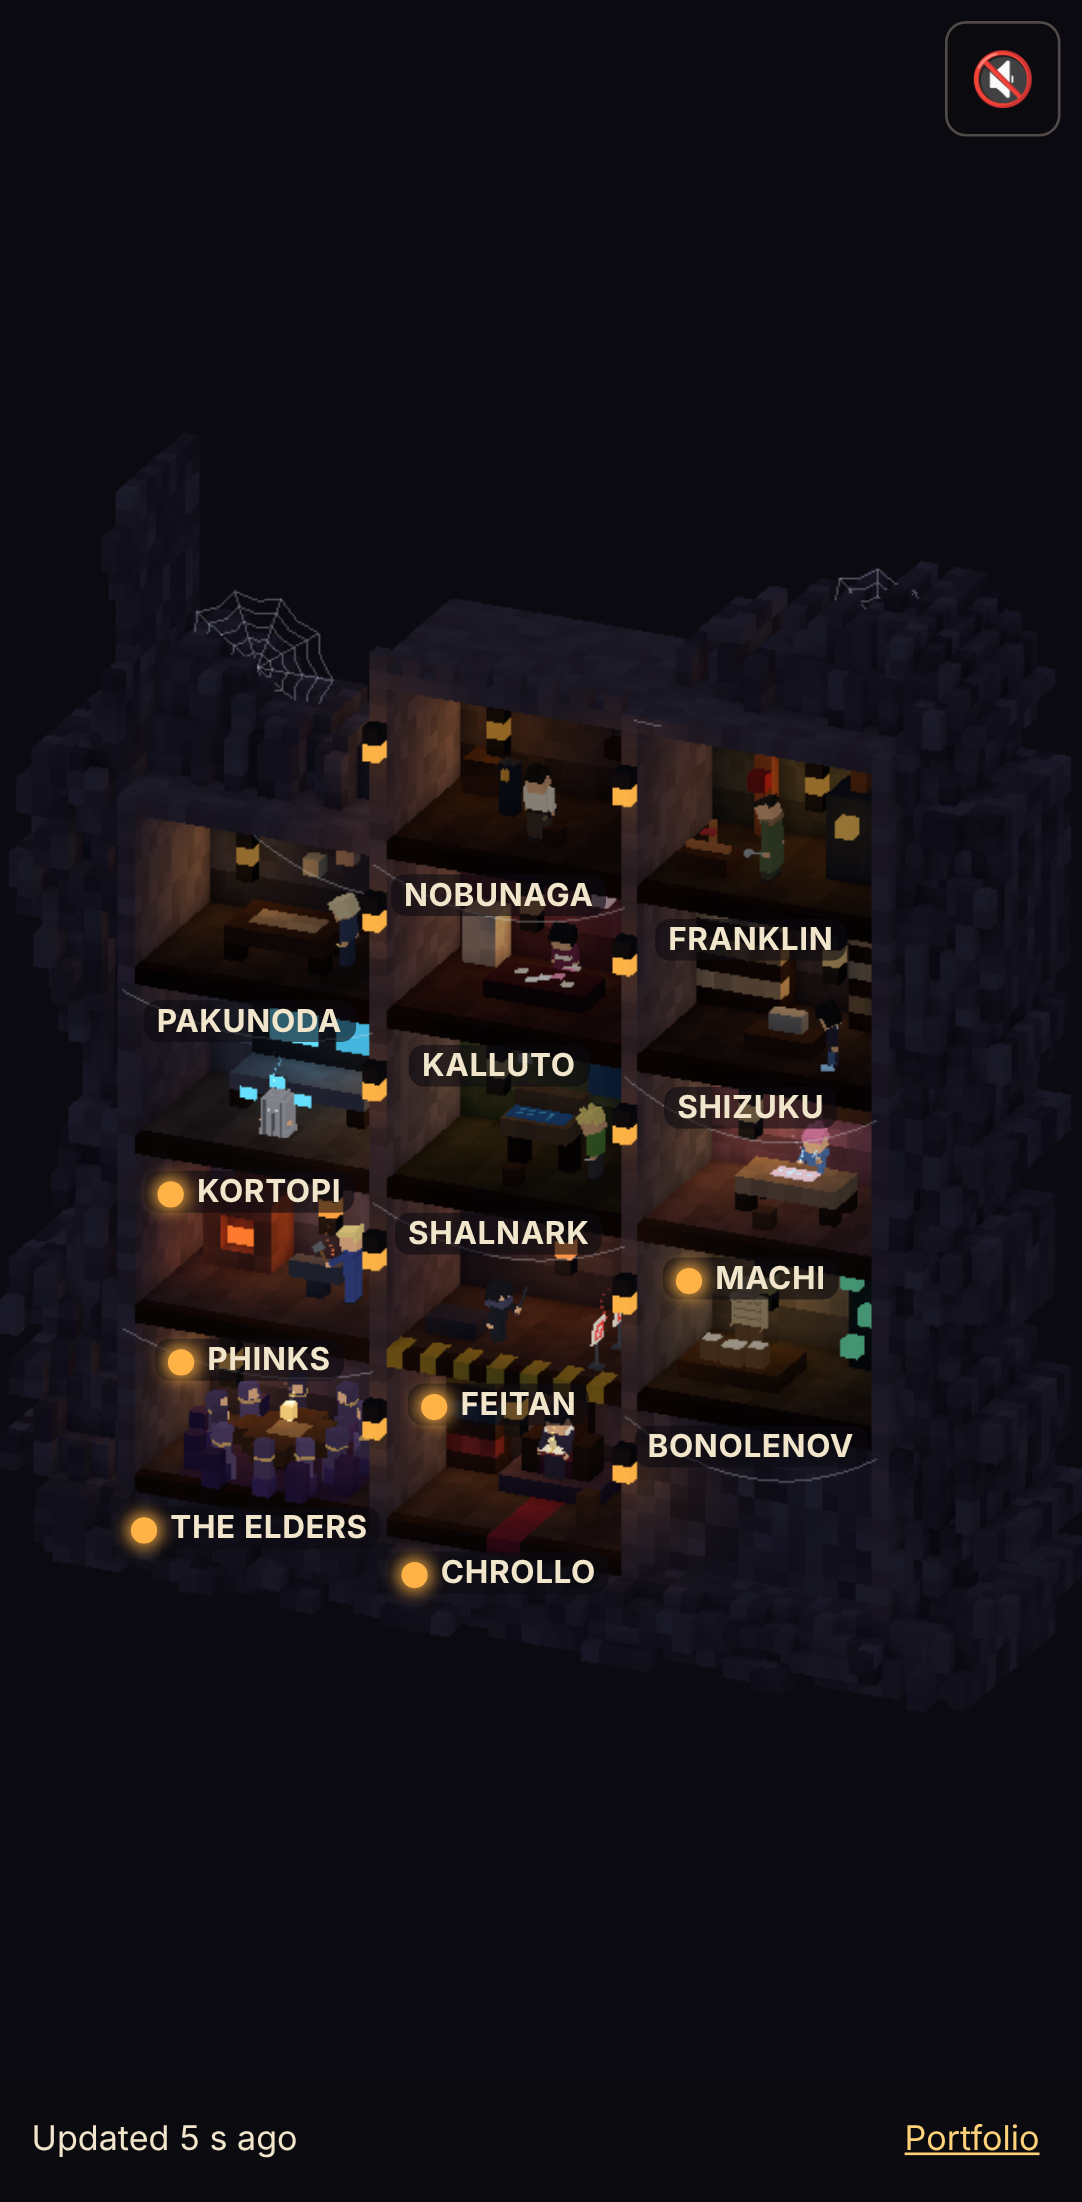
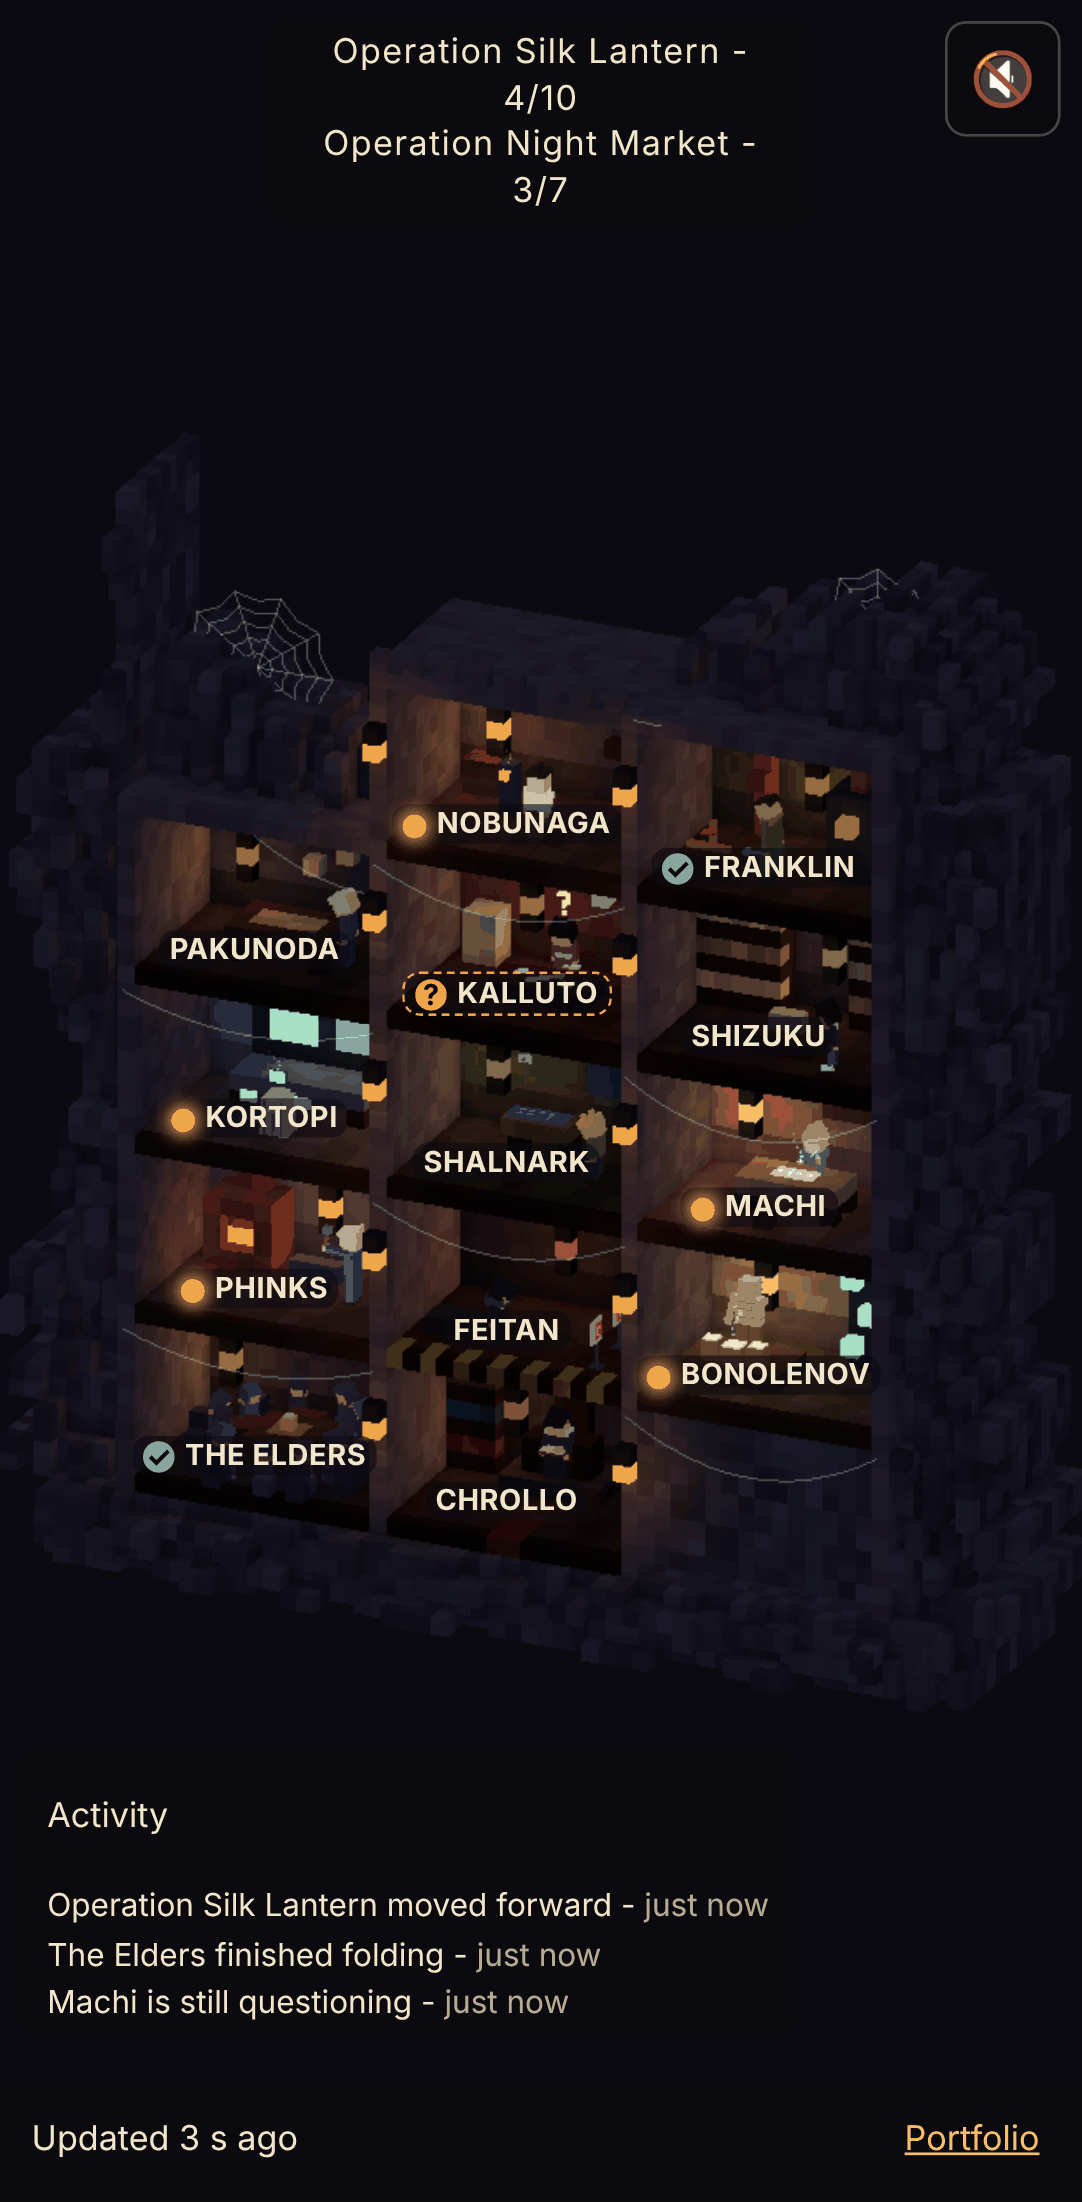
Seat room labels inside their room above the floor, a bit smaller
Labels sit just above each room's floor, inside the room, so they no
longer straddle the line or hang into the room below. Name and detail
lines, padding and markers are slightly smaller (11 px minimum).

-C.L.

diff --git a/e2e/labels.spec.ts b/e2e/labels.spec.ts
@@ -76,7 +76,7 @@ const roomPx = (page: Page) =>
     ),
   );
 
-/** A page point inside a room: just above its label (the label sits on the room's floor edge). */
+/** A page point inside a room: just above its label (the label sits just above the room floor). */
 async function roomPoint(page: Page, id: string) {
   const b = await label(page, id).boundingBox();
   if (!b) throw new Error(`no box for ${id}`);
@@ -152,7 +152,7 @@ test('all 13 labels show name and role, on screen, legible, not overlapping (def
     expect(r.y, `${r.id} top`).toBeGreaterThanOrEqual(0);
     expect(r.y + r.h, `${r.id} bottom`).toBeLessThanOrEqual(vp.height);
     expect(r.nameFont, `${r.id} name font`).toBeGreaterThanOrEqual(11);
-    expect(r.roleFont, `${r.id} role font`).toBeGreaterThanOrEqual(12);
+    expect(r.roleFont, `${r.id} role font`).toBeGreaterThanOrEqual(11);
     expect(contrast(r.color, 'rgb(11, 10, 16)'), `${r.id} contrast`).toBeGreaterThanOrEqual(4.5);
     expect(r.scrollW, `${r.id} text fits`).toBeLessThanOrEqual(r.clientW + 1);
   }
@@ -530,7 +530,7 @@ test('draw calls: labels and panel add none', async ({ page }) => {
   expect(withPanel, 'zoomed in culls, never adds').toBeLessThanOrEqual(base);
 });
 
-test('compact labels on a narrow screen: 12px name, role kept for screen readers, panel hides the others', async ({
+test('compact labels on a narrow screen: 11px name, role kept for screen readers, panel hides the others', async ({
   page,
 }) => {
   await page.setViewportSize({ width: 390, height: 844 });
@@ -539,7 +539,7 @@ test('compact labels on a narrow screen: 12px name, role kept for screen readers
   const nameFont = await k
     .locator('.room-name')
     .evaluate((e) => parseFloat(getComputedStyle(e).fontSize));
-  expect(nameFont).toBeGreaterThanOrEqual(12);
+  expect(nameFont).toBeGreaterThanOrEqual(11);
   const role = await k.locator('.room-role').boundingBox();
   expect(role && role.width <= 1 && role.height <= 1, 'role visually hidden').toBe(true);
   await expect(page.getByRole('button', { name: /^Kortopi.*Front-end engineer/ })).toHaveCount(1);

diff --git a/src/ui/room.css b/src/ui/room.css
@@ -12,14 +12,14 @@
   left: 0;
   top: 0;
   max-width: var(--room-px, 100px);
-  padding: 2px 6px;
+  padding: 1px 5px;
   margin: 0;
   border: 0;
   border-radius: 6px;
   background: rgba(11, 10, 16, 0.72);
   color: #f1e6cc;
   font:
-    12px/1.2 system-ui,
+    11px/1.15 system-ui,
     sans-serif;
   text-align: center;
   pointer-events: none;
@@ -33,7 +33,7 @@
   display: block;
 }
 .room-name {
-  font-size: 12px;
+  font-size: 11px;
   font-weight: 700;
   letter-spacing: 0.06em;
   text-transform: uppercase;
@@ -141,24 +141,24 @@
 .room-name::before {
   content: '';
   display: none;
-  margin-right: 5px;
+  margin-right: 4px;
   vertical-align: middle;
 }
 .room-label[data-state='working'] .room-name::before,
 .room-label[data-state='done'] .room-name::before,
 .room-label[data-state='stale'] .room-name::before {
   display: inline-block;
-  min-width: 14px;
-  height: 14px;
-  border-radius: 7px;
-  line-height: 14px;
+  min-width: 12px;
+  height: 12px;
+  border-radius: 6px;
+  line-height: 12px;
   text-align: center;
-  font-size: 12px;
+  font-size: 11px;
   letter-spacing: 0;
 }
 .room-label[data-state='working'] .room-name::before {
-  min-width: 10px;
-  height: 10px;
+  min-width: 9px;
+  height: 9px;
   background: #ffb347;
   box-shadow: 0 0 6px 2px rgba(255, 179, 71, 0.8);
 }
@@ -193,14 +193,11 @@
   .room-labels[data-panel] .room-label:not([data-open]) {
     opacity: 0;
   }
-  .room-labels {
-    --label-y: 0px;
-  }
   .room-label {
     max-width: none;
-    padding: 1px 5px;
+    padding: 1px 4px;
     white-space: nowrap;
-    font-size: 12px;
+    font-size: 11px;
     background: rgba(11, 10, 16, 0.6);
   }
   .room-name {

diff --git a/src/scene/voxel/hideout.ts b/src/scene/voxel/hideout.ts
@@ -28,7 +28,7 @@ export type RoomAnchors = {
   readonly figure: Vec3;
   /** Top surface for the role prop. */
   readonly prop: Vec3;
-  /** Below the room's open front (on the floor edge), for the name label. */
+  /** Just above the floor at the room's front edge, inside the room: the label's bottom sits here. */
   readonly label: Vec3;
   /** Wall lantern centre (glow position for RoomLights). */
   readonly light: Vec3;
@@ -76,7 +76,7 @@ function computeAnchors(member: Member): RoomAnchors {
   const anchors: RoomAnchors = {
     figure: add(o, s.figure),
     prop: add(o, s.prop),
-    label: [(box.min[0] + box.max[0]) / 2, box.min[1] - 0.5, box.max[2] + 0.5],
+    label: [(box.min[0] + box.max[0]) / 2, box.min[1] + 1, box.max[2] - 0.5],
     light: add(o, [s.lantern[0] + 0.5, s.lantern[1] + 0.5, s.lantern[2] + 0.5]),
     center: boxCenter(box),
     box,

diff --git a/src/scene/Labels.tsx b/src/scene/Labels.tsx
@@ -179,7 +179,7 @@ export function Labels() {
       const el = kids[i];
       if (!m3 || !(el instanceof HTMLElement)) continue;
       scratch.set(...ROOM_ANCHORS[m3.id].label).project(cam);
-      el.style.transform = `translate(${Math.round((scratch.x * 0.5 + 0.5) * size.width)}px,${Math.round((-scratch.y * 0.5 + 0.5) * size.height)}px) translate(-50%,var(--label-y,0px))`;
+      el.style.transform = `translate(${Math.round((scratch.x * 0.5 + 0.5) * size.width)}px,${Math.round((-scratch.y * 0.5 + 0.5) * size.height)}px) translate(-50%,-100%)`;
     }
   });
 

diff --git a/src/scene/voxel/voxel.test.ts b/src/scene/voxel/voxel.test.ts
@@ -176,7 +176,10 @@ describe('hideout', () => {
           expect(p[k]).toBeGreaterThanOrEqual((a.box.min[k] ?? 0) - 1);
           expect(p[k]).toBeLessThanOrEqual(a.box.max[k] ?? 0);
         }
-      expect(a.label[1]).toBeGreaterThan(a.box.max[1] - 0.01);
+      // label sits inside its own room, just above the floor
+      expect(a.label[1]).toBeGreaterThan(a.box.min[1]);
+      expect(a.label[1]).toBeLessThan(a.box.min[1] + 3);
+      expect(a.label[2]).toBeLessThanOrEqual(a.box.max[2]);
     }
     expect(ROOM_ANCHORS.elders.seats).toHaveLength(11);
   });

diff --git a/docs/screenshots/README.md b/docs/screenshots/README.md
@@ -19,14 +19,14 @@ and is captured at the glow peak of a real working -> done transition.
 Honest notes per image (what looks good, what looks off):
 
 - desktop-1: clean, whole hideout fitted, labels readable; nothing lit, as it should be.
-- desktop-2: working rooms glow with verbs under role; banner and ticker clear. Labels of working members are one line taller (role + verb) and still cover a little of the wall strip of the room below; desktop is unchanged by the phone label work (re-taken only to confirm that).
+- desktop-2: working rooms glow with verbs under role; banner and ticker clear. Labels sit inside their own room just above its floor, slightly smaller (11 px), and no longer hang into the room below.
 - desktop-3: Pakunoda's room is warm, ticker lists "finished" lines; the demo feed puts many events at "just now".
 - desktop-4: Phinks shows "no recent update" and a "?" above the character; subtle but legible.
 - desktop-5: the zoom-in on the panel is strong; panel fields good. The Feitan label at bottom right is cut by the footer bar.
 - desktop-6: no scene change when offline, only the footer note (a stray "- " before the note was fixed in this branch; this image is after the fix).
 - desktop-7: toggle clearly on; no other visual change.
 - phone-1: labels are name-only, one line, along each room's floor edge, 12 px text; they no longer crowd the rooms. The scene is still small with a large empty band above and below.
-- phone-2: working members get an orange dot before the name; verbs and roles are no longer drawn (they stay in the DOM, visually hidden, and in the panel), so labels stay one line. Kortopi's label touches the edge of its monitor; ticker collapsed to "Activity".
+- phone-2: working members get an orange dot before the name; verbs and roles are no longer drawn (they stay in the DOM, visually hidden, and in the panel), so labels stay one line. ticker collapsed to "Activity".
 - phone-3: two-line, four-row banner pushes down, no overlap with the scene; the ticker is collapsed.
 - phone-4: Phinks and The Elders (working, no write for 4.5 h) get a dashed outline and a "?" in the label, much easier to see than the old tiny "?" over the figure (that one still shows next to Phinks). The dashed Phinks label sits tight against the figure's "?" and lantern; "no recent update" text is now only in the panel.
 - phone-5: panel readable (name, role, plaque, state, verb, mission, running, tickets and bar); only the selected room's label (Kortopi, with its dot) stays visible, so the cut-off labels around the panel are gone. The zoomed room still shows the Phinks "?" prop and lanterns, which are part of the scene.
